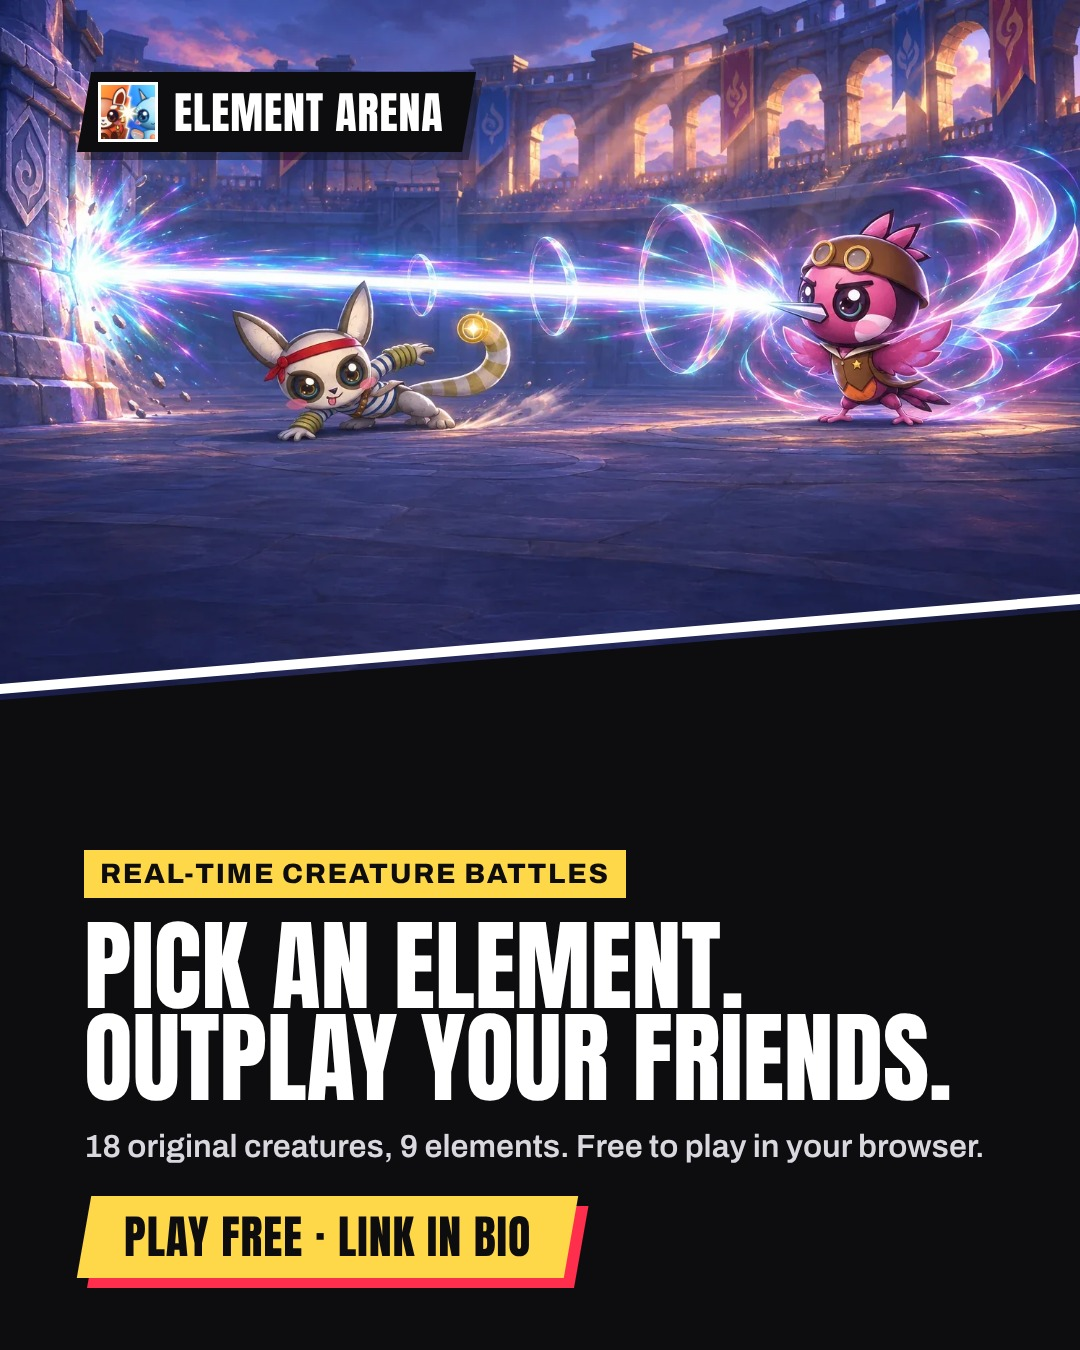
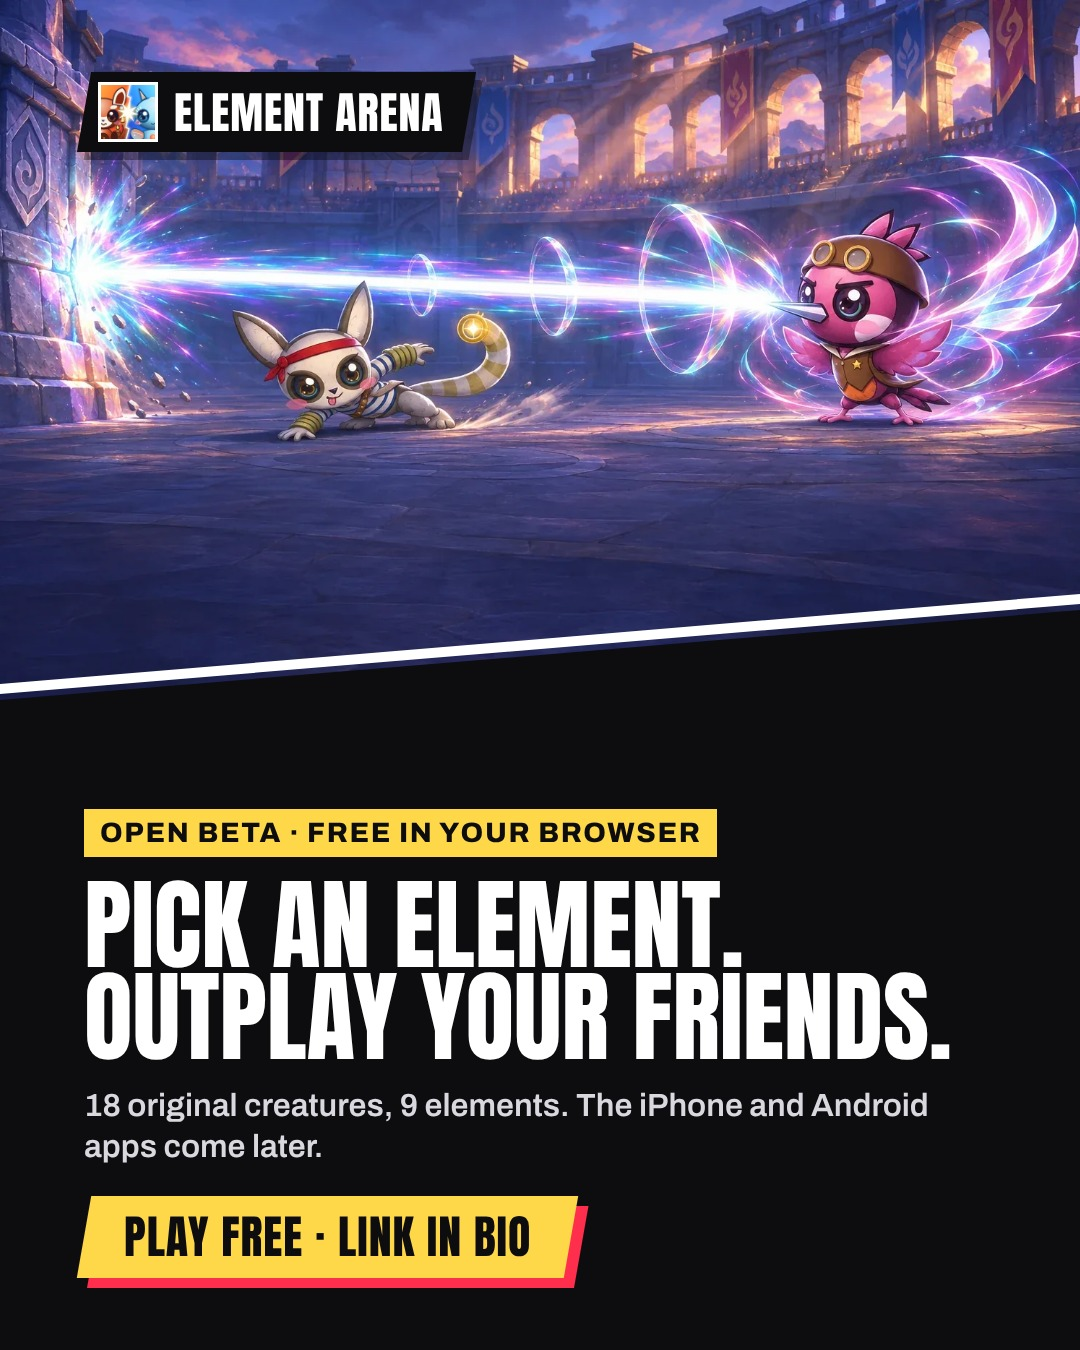
Open beta on Instagram: a "found a bug?" post, beta captions, a clearer report form
The owner (27 Nov): the web game is an open beta, a first taste before
the store apps, which bring more champions, skins and features; players
should report bugs; the sessions have full say over growing the game
(no paid ads), which approves the plan.

- Post 10, "Found a bug? Tell us": the game's Menu, captured in Poster by
  report.spec.ts, with rings on the gear and Report a problem (placed
  from the elements' real boxes) and the coin count covered.
- Captions say open beta, free in the browser, the apps later with more
  (no dates), and how to report a bug; post 1 shows "Open beta".
- The plan moves post 10 to Fri 4 Dec and runs to Wed 16 Dec; approved.
- The report form said "Your current screen are included"; it says "is"
  unless a player or a room code is included too.
- docs/instagram.md: the open beta's rules; captions now live only in
  plan.json.

Claude-Session: https://claude.ai/code/session_01GGURqTyss1yZEG5qcb1sBJ

Changed region(s): [[0.0611, 0.5911, 0.9167, 0.8711]]

diff --git a/scripts/instagram/report.spec.ts b/scripts/instagram/report.spec.ts
@@ -1,0 +1,59 @@
+/**
+ * The open beta's "found a bug?" post (docs/instagram.md): the game's own
+ * way to report one, captured in Poster on a phone held sideways: the Menu
+ * (the gear, top right of the Lobby) with Report a problem in it, and the
+ * report form it opens.
+ *
+ *   npx playwright test --config scripts/instagram/playwright.config.ts report.spec.ts
+ *
+ * Writes instagram-clips/report/menu.png and form.png (2532 x 1170), and
+ * boxes.json: where the gear, Report a problem, the menu and the coins are.
+ */
+import { expect, test } from "@playwright/test";
+import { mkdirSync, writeFileSync } from "node:fs";
+import { openHub } from "../../tests/visual/helpers";
+import { lookShown, onPlayersLook } from "../../tests/visual/players-look";
+
+onPlayersLook();
+const OUT = "instagram-clips/report";
+
+test("report a problem", async ({ browser }) => {
+  mkdirSync(OUT, { recursive: true });
+  // An iPhone 16 / 17 Pro's screen held sideways, at its 3x.
+  const context = await browser.newContext({
+    viewport: { width: 844, height: 390 },
+    deviceScaleFactor: 3,
+    hasTouch: true,
+    isMobile: true,
+  });
+  try {
+    const page = await context.newPage();
+    await openHub(page);
+    expect(await lookShown(page)).toBe("poster");
+    // The gear at the top right opens the Menu, Report a problem in it.
+    await page.locator("#header-menu > summary").click();
+    const report = page.locator("#report-problem");
+    await expect(report).toBeVisible();
+    await page.waitForTimeout(600);
+    await page.screenshot({ path: `${OUT}/menu.png` });
+    // Where the gear, Report a problem, the open menu and the coin count
+    // are (CSS pixels), for the post's crop, its rings and its cover.
+    const at = async (selector: string) =>
+      (await page.locator(selector).first().boundingBox())!;
+    writeFileSync(
+      `${OUT}/boxes.json`,
+      JSON.stringify({
+        gear: await at("#header-menu > summary"),
+        report: await at("#report-problem"),
+        panel: await at(".header-menu-panel"),
+        coins: await at("#account-coins"),
+      }),
+    );
+    await report.click();
+    await expect(page.locator("#report-form")).toBeVisible();
+    await page.waitForTimeout(600);
+    await page.screenshot({ path: `${OUT}/form.png` });
+  } finally {
+    await context.close();
+  }
+});

diff --git a/apps/client/src/accounts.ts b/apps/client/src/accounts.ts
@@ -2368,7 +2368,7 @@ export class AccountUI {
       return;
     }
     this.hooks.openDialog(
-      `<div class="eyebrow">Help us fix it</div><h2>${context.playerName ? `Report ${escape(context.playerName)}` : "Report a problem"}</h2><p>Tell the admins what happened. Your current screen${context.playerName ? " and who you're reporting" : ""}${context.room ? ` and room code ${escape(context.room)}` : ""} are included automatically.</p><form id="report-form" class="account-form"><label>What kind of problem?<select name="category" required>${Object.entries(
+      `<div class="eyebrow">Help us fix it</div><h2>${context.playerName ? `Report ${escape(context.playerName)}` : "Report a problem"}</h2><p>Tell the admins what happened. Your current screen${context.playerName ? " and who you're reporting" : ""}${context.room ? ` and room code ${escape(context.room)}` : ""} ${context.playerName || context.room ? "are" : "is"} included automatically.</p><form id="report-form" class="account-form"><label>What kind of problem?<select name="category" required>${Object.entries(
         REPORT_CATEGORIES,
       )
         .map(

diff --git a/docs/instagram.md b/docs/instagram.md
@@ -1,15 +1,30 @@
-# Instagram starter pack
+# Instagram
 
-The game's first Instagram account, free: a handle, a bio, the profile
-picture, nine posts with captions (one of them a Reel), and three weeks of
-posting. The owner
-creates the account (password, verification codes, CAPTCHA); a Claude
-session runs it through Meta's API (owner, 27 Nov: "Running the account"
-below).
+The game's Instagram, @elementarena.usa: the profile, the posts and the
+plan they go out on, run by Claude sessions through Meta's API ("Running
+the account" below). The owner created the account and the Meta app.
 
 Rules for everything posted (owner, 27 Nov): only the name Element Arena
 and the game's own art and characters. Never compare the game with another
 game or company, and never use their names or hashtags.
+
+**The open beta** (owner, 27 Nov): the web game is an open beta, a first
+taste before the App Store and Google Play apps, which will bring more
+champions, skins and features. So the posts:
+
+- say "open beta", and that it's free in the browser now;
+- say the iPhone and Android apps come later, with more, but never give a
+  date or promise a particular champion, skin or feature;
+- ask players to report bugs: in the game, the gear at the top of the
+  Lobby, then **Report a problem** (it needs a free account), or in the
+  comments, which the scheduled runs thank and pass on to the owner;
+- teach adding the game to the home screen early (the owner: friends keep
+  asking how), with screenshots from a real phone, never drawings. The
+  game's own steps are in the Menu, **Want fullscreen?**
+  (`apps/client/src/fullscreen-help.ts`).
+
+The title screen says "Open beta" after the name on the web (and never in
+the store apps: `title-screen.ts`, `betaTag`).
 
 ## Make the pictures
 
@@ -78,131 +93,34 @@ account, free; category Video Game). Business, not Creator: only a Business
 account can publish Stories through the API (below). It also unlocks
 insights and scheduling.
 
-## The nine posts
+## The posts
 
-Hashtags: at most five per post. Reports since December 2025 say
-Instagram caps posts at five; five works under either rule.
+Their captions are in `scripts/instagram/plan.json`, which is what goes out
+(`tests/unit/instagram-plan.test.ts` keeps them within the rules: at most
+five hashtags, `#ElementArena`, no other game's name, at most 2,200
+characters). Reports since December 2025 say Instagram caps posts at five
+hashtags; five works under either rule.
 
-### 1. Welcome (painted art, the duel at dusk)
+| Post                        | Picture                                                                  |
+| --------------------------- | ------------------------------------------------------------------------ |
+| 1. Welcome                  | the duel at dusk (loading art), "Open beta · free in your browser"       |
+| 2. Duels                    | a real duel, the charged beam into the lightning field                   |
+| 3. The roster               | the 18 fighters' drawings on their elements' colours                     |
+| 4. Raid boss: Lumiwick      | Lumiwick's raid splash                                                   |
+| 5. 2v2 teams                | a real 2v2                                                               |
+| 6. Champion spotlight       | Pyranda and its kit                                                      |
+| 7. Free-for-all             | a real four-way fight in the Ember Forge                                 |
+| 8. The Shop: Mythical skins | a Reel (below)                                                           |
+| 9. The Spire                | a real Spire floor                                                       |
+| 10. Found a bug? Tell us.   | the game's Menu, rings on the gear and Report a problem (report.spec.ts) |
 
-```
-Pick an element. Outplay your friends. ⚔
-
-Element Arena is a real-time creature battle game: 18 original creatures across 9 elements, live 1v1 duels, 2v2 team fights and raid bosses.
-
-Free to play in your browser on phone, tablet or computer. No download. Link in bio.
-
-#ElementArena #indiegame #mobilegame #pvp #browsergame
-```
-
-### 2. Duels (real capture)
-
-```
-Dodge. Dash. Land the big one. ⚡
-
-Every duel is live: aim your skills, read your rival and time your ultimate. No turns, no waiting.
-
-Play free, link in bio.
-
-#ElementArena #pvp #indiegame #mobilegame #gamedev
-```
-
-### 3. The roster
-
-```
-18 creatures. 9 elements. 🔥💧⚡🌿
-
-Fire, Water, Electric, Nature, Earth, Light, Shadow, Psychic and Aura, two champions each, every one with its own kit.
-
-Who are you picking first? Tell us in the comments 👇
-
-#ElementArena #indiegame #mobilegame #characterdesign #pvp
-```
-
-### 4. Raid boss: Lumiwick (painted art)
-
-```
-Seven bosses, seven puzzles. 🏮
-
-Meet Lumiwick, a lantern with a temper. Every raid boss has one trick to learn: solve it solo or bring up to three friends.
-
-Start with Cragmuff: one clear opens the other six.
-
-#ElementArena #raidboss #indiegame #mobilegame #coop
-```
-
-### 5. 2v2 teams (real capture)
-
-```
-Better with a friend. 🤝
-
-Team up in 2v2, stack your skills and wipe the other side. Tag the friend you'd queue with.
-
-Play free, link in bio.
-
-#ElementArena #pvp #indiegame #mobilegame #multiplayer
-```
-
-### 6. Champion spotlight: Pyranda
-
-```
-Champion spotlight: Pyranda 🔥
-
-A shy red panda with a flame at the tip of its tail. Lobs burning chestnuts from the back line.
-
-🌰 Chestnut Mortar: a burning chestnut over walls
-🔥 Hot Coals: a patch that burns anyone in it
-🧱 Ember Curtain: a wall of embers that burns up enemy shots
-💥 Chestnut Storm (ultimate): five blasts march across the arena
-
-Who should we spotlight next?
-
-#ElementArena #indiegame #mobilegame #characterdesign #pvp
-```
-
-### 7. Free-for-all (real capture)
-
-```
-Four fighters. One winner. 🏆
-
-Everyone against everyone in the Ember Forge. Watch your back.
-
-Play free, link in bio.
-
-#ElementArena #pvp #indiegame #mobilegame #battlegame
-```
-
-### 8. The Shop: Mythical skins (Reel)
-
-Post `08-skins-reel.mp4` as a **Reel**, with `08-skins-reel-cover.jpg` as
+**Post 8**: Post `08-skins-reel.mp4` as a **Reel**, with `08-skins-reel-cover.jpg` as
 its cover: the three skins' Entrance, Victory and Ultimate with their full
 effects, to the game's own hub music. The API can't add Instagram's music
 library, so the Reel carries its own sound; posted by hand, a track from
 the library may replace it (a Business account gets its commercially
 licensed part). `08-skins-feed.jpg` (the three at their
 Ultimate's peak) is the still version, for a later post or Story.
-
-```
-Walk in a legend. ✨
-
-Ashen Warlord, Abyssal Reaver, Hellforge: Mythical skins with their own entrance, victory and ultimate. Win in them to awaken them, stage by stage. Try anything on before you spend a coin.
-
-All cosmetic, never stronger.
-
-#ElementArena #indiegame #mobilegame #characterdesign #gameart
-```
-
-### 9. The Spire (real capture)
-
-```
-70 floors. How high can you climb? 🗼
-
-Seven zones of ten floors, with an elite halfway up and a boss at the top of each.
-
-Play free, link in bio.
-
-#ElementArena #indiegame #mobilegame #indiedev #gamedev
-```
 
 ## Posting plan (US Pacific time)
 
@@ -215,20 +133,23 @@ West Coast, 8:40 PM on the East Coast). The day after each post, its story
 version goes up at 11:40 AM PT. The API can't add a link sticker, so stories
 point to the link in bio.
 
-| Date (PT)           | Post                   |
-| ------------------- | ---------------------- |
-| Mon 30 Nov, 5:40 PM | 1. Welcome             |
-| Mon 30 Nov, 5:40 PM | 2. Duels               |
-| Mon 30 Nov, 5:40 PM | 3. The roster          |
-| Wed 2 Dec, 5:40 PM  | 4. Raid boss: Lumiwick |
-| Fri 4 Dec, 5:40 PM  | 5. 2v2 teams           |
-| Mon 7 Dec, 5:40 PM  | 6. Pyranda             |
-| Wed 9 Dec, 5:40 PM  | 7. Free-for-all        |
-| Fri 11 Dec, 5:40 PM | 8. The Shop (Reel)     |
-| Mon 14 Dec, 5:40 PM | 9. The Spire           |
+| Date (PT)           | Post                     |
+| ------------------- | ------------------------ |
+| Mon 30 Nov, 5:40 PM | 1. Welcome               |
+| Mon 30 Nov, 5:40 PM | 2. Duels                 |
+| Mon 30 Nov, 5:40 PM | 3. The roster            |
+| Wed 2 Dec, 5:40 PM  | 4. Raid boss: Lumiwick   |
+| Fri 4 Dec, 5:40 PM  | 10. Found a bug? Tell us |
+| Mon 7 Dec, 5:40 PM  | 5. 2v2 teams             |
+| Wed 9 Dec, 5:40 PM  | 6. Pyranda               |
+| Fri 11 Dec, 5:40 PM | 8. The Shop (Reel)       |
+| Mon 14 Dec, 5:40 PM | 7. Free-for-all          |
+| Wed 16 Dec, 5:40 PM | 9. The Spire             |
 
 Launch day's three go out in this order, a minute or so apart, so the grid
-(newest first) reads roster, duels, welcome.
+(newest first) reads roster, duels, welcome. The home screen how-to (a
+carousel, and a story each for iPhone and Android) joins launch day once
+the owner's phone screenshots are in.
 
 Week 4: read Insights (Professional dashboard) for which post reached the
 most people, and make more like it: the next champion spotlights, the other
@@ -267,12 +188,15 @@ The owner is busy and handed the posting to Claude sessions: "có chứ"
 - **"Dừng" (stop)** from the owner stops all posting and replies at once.
 
 Comments, checked three times a day: thank people, answer the usual
-questions (where to play: the link in bio; free: yes, in the browser; the
-phone apps: coming soon), and hide spam, scams and abuse. Never promise a
-date, a prize or a feature. Complaints, bugs, payments, accounts or
-personal data, anyone who seems to be a child sharing personal details,
-press and business: no reply from the session; it tells the owner the same
-day. Every Sunday the session sends a short report: reach, the best post,
+questions (where to play: the link in bio; free: yes, in the browser, an
+open beta; the phone apps: later, with more champions, skins and features;
+fullscreen: add it to the home screen, the gear then Want fullscreen?), and
+hide spam, scams and abuse. Never promise a date, a prize or a feature.
+**A bug report** gets a short thank-you ("thanks, passed on to the team")
+and goes to the owner with what the player said. Complaints, payments,
+accounts or personal data, anyone who seems to be a child sharing personal
+details, press and business: no reply from the session; it tells the owner
+the same day. Every Sunday the session sends a short report: reach, the best post,
 new followers, and what needs the owner.
 
 How it works: Meta's Graph API, the official and free route (never a
